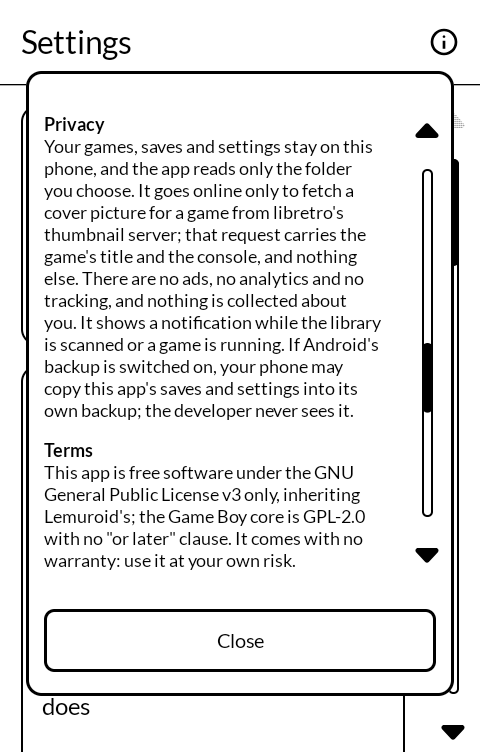
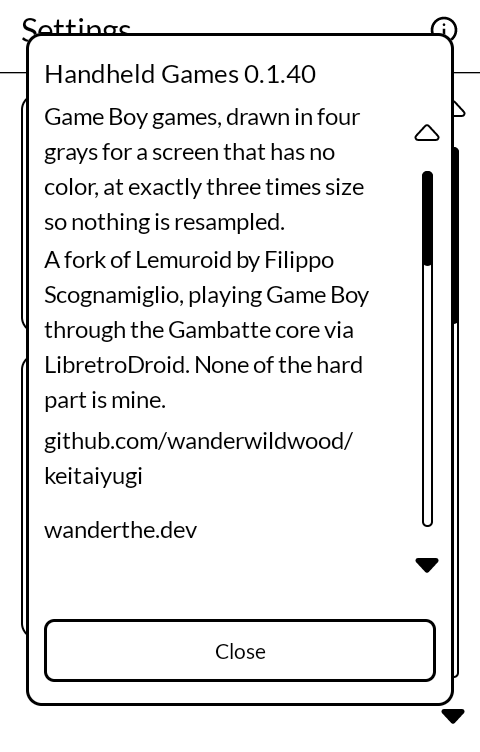
README: cover pictures are the one thing fetched from the internet, the size as it is now, no Help shot; About shot retaken

diff --git a/README.md b/README.md
@@ -9,7 +9,7 @@ can be on a quiet afternoon.
 | | |
 |---|---|
 | ![First start: choose a directory of Game Boy files](screenshots/1-setup.png) | ![The settings list](screenshots/2-settings.png) |
-| ![How to use it, in the About box](screenshots/3-help.png) | ![About: Privacy, Terms and Licenses](screenshots/4-about.png) |
+| ![About: Privacy, Terms and Licenses](screenshots/4-about.png) | |
 
 No game is bundled in the app and no commercial game appears in this repository. The
 screenshots show the app before a directory of Game Boy files is chosen; freely licensed
@@ -40,7 +40,7 @@ surprising one. Mario does not.
 ## What is different from Lemuroid
 
 - **One console.** Twenty bundled cores become one, and four ABIs become one — the Kompakt is
-  arm64-v8a. Upstream's debug APK is 212 MB; the signed release here is 6.8 MB.
+  arm64-v8a. Upstream's debug APK is 212 MB; the signed release here is about 8 MB.
 - **Gray, not green.** Upstream renders the Game Boy's own green LCD. This panel has no color
   to show it in, so the tint arrives only as contrast lost between the four shades that are
   the whole picture. The palette is a true gray ramp.
@@ -55,7 +55,10 @@ surprising one. Mario does not.
 - **Paged lists.** Scrolling on E Ink is limited by the panel, not the processor, so the only
   thing that helps is producing fewer frames. The lists use MMD's, which page rather than
   glide.
-- **Gray cover art.** Converted properly rather than left for the panel to do badly.
+- **Gray cover art.** Converted properly rather than left for the panel to do badly. From the
+  internet the app fetches only a game's cover picture, from libretro's public thumbnail server
+  (thumbnails.libretro.com, over https); the request carries the game's title and the console,
+  and nothing else.
 - **No system chooser.** There is one system; the tab opens the games.
 
 ## Games
